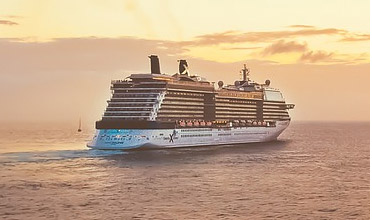
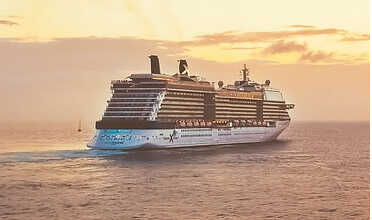
Compressed all img. Back to jpeg img type

diff --git a/index.html b/index.html
@@ -12,10 +12,10 @@
 	<meta name="Version" content="1.0">
 	<meta name="Language" content="English">
 	<!-- Favicon -->
-	<link rel="apple-touch-icon" sizes="180x180" href="./favicon/apple-touch-icon.png">
+	<!-- <link rel="apple-touch-icon" sizes="180x180" href="./favicon/apple-touch-icon.png">
 	<link rel="icon" type="image/png" sizes="32x32" href="./favicon/favicon-32x32.png">
 	<link rel="icon" type="image/png" sizes="16x16" href="./favicon/favicon-16x16.png">
-	<link rel="mask-icon" href="./favicon/safari-pinned-tab.svg" color="#5bbad5">
+	<link rel="mask-icon" href="./favicon/safari-pinned-tab.svg" color="#5bbad5"> -->
 	<!-- Css -->
 	<link rel="stylesheet" href="./css/main.css">
 	<link rel="stylesheet" href="./css/media.css">
@@ -37,9 +37,9 @@
  <link href="https://fonts.googleapis.com/css2?family=Montserrat:wght@200;300;400&amp;family=Raleway:wght@400;500;600;700;800&amp;display=swap" rel="stylesheet">
 </head>
 <body>
-	<section class="preload">
+	<div class="preload">
 		<div class="circle"></div>
-	</section>
+	</div>
 		<a href="#footerLast" class="scrollBtn btnDw"></a>
 		<a href="#" class=" scrollBtn btnUp"></a>
 	<header class="mainHeader">
@@ -362,7 +362,7 @@
 				</a>
 			</div>
 			<div class="lastestProject__boxCarts__img">
-				<img src="./img/lastestProject/android-phone-2048px-21.webp" alt="iPhone in hand">
+				<img src="./img/lastestProject/android-phone-2048px-21.jpg" alt="iPhone in hand">
 			</div>
 			<div class="descriptionForPic">
 				<h3>Claritas Etiam Processus</h3>
@@ -383,7 +383,7 @@
 				</a>
 			</div>
 			<div class="lastestProject__boxCarts__img">
-				<img src="./img/lastestProject/peakpxonee.webp" alt="Splash sea water">
+				<img src="./img/lastestProject/peakpxonee.jpg" alt="Splash sea water">
 			</div>
 			<div class="descriptionForPic">
 				<h3>Quam Nutamus Farum</h3>
@@ -404,7 +404,7 @@
 				</a>
 			</div>
 			<div class="lastestProject__boxCarts__img">
-				<img src="./img/lastestProject/bookLayout.webp" alt="Book">
+				<img src="./img/lastestProject/bookLayout.jpg" alt="Book">
 			</div>
 			<div class="descriptionForPic">
 				<h3>Quam Nutamus Farum</h3>
@@ -446,7 +446,7 @@
 				</a>
 			</div>
 			<div class="lastestProject__boxCarts__img">
-				<img src="./img/lastestProject/Magazine_MockUp.webp" alt="Magazine MockUp">
+				<img src="./img/lastestProject/Magazine_MockUp.png" alt="Magazine MockUp">
 			</div>
 			<div class="descriptionForPic">
 				<h3>Quam Nutamus Farum</h3>
@@ -467,7 +467,7 @@
 				</a>
 			</div>
 			<div class="lastestProject__boxCarts__img">
-				<img src="./img/lastestProject/Kolay_gelsin.webp" alt="Rock and sea">
+				<img src="./img/lastestProject/Kolay_gelsin.jpg" alt="Rock and sea">
 			</div>
 			<div class="descriptionForPic">
 				<h3>Quam Nutamus Farum</h3>
@@ -505,7 +505,7 @@
 <section class="mobileDev">
 	<div class="container mobileDevContainer">
 		<div class="picturePhone">
-			<img src="./img/mobile/iPhone-in-hand.webp" alt="Smartphone">
+			<img src="./img/mobile/iPhone-in-hand.png" alt="Smartphone">
 		</div>
 			<div class="mobileTxt">
 			<div class="descriptionBoxForMobile">
@@ -732,7 +732,7 @@
 </section>
 
 <!-- Section Logos -->
-<section class="logos">
+<div class="logos">
 <div class="logosBox">
 	<div class="imgLogoBox">
 		<img src="./img/logos/logo-1.png" alt="">
@@ -747,7 +747,7 @@
 		<img src="./img/logos/logo-4.png" alt="">
 	</div>
 </div>
-</section>
+</div>
 <footer class="footerMain" id="footerLast">
 <div class="container footerBox">
 	<h4 class="footerCopyright">

diff --git a/css/main.css b/css/main.css
@@ -152,8 +152,12 @@ body{
 	font-family: 'Montserrat', sans-serif;
 }
 
-a{
+a, .scrollBtn:hover, .logoMain, .logoMain use, .search svg, .shop svg, .search svg use, .shop svg use, .BoxPreview a> *, .hiddenBox a svg, .hiddenBox a svg use, .boxlogo svg, .arrowBtn, .arrowBtn svg{
 	cursor: var(--pointerCursor), pointer;
+}
+
+a{
+
 	color: inherit;
 	text-decoration: none;
 }
@@ -254,7 +258,7 @@ ul{
 }
 
 .scrollBtn:hover {
-		cursor: var(--pointerCursor), pointer;
+	
 	background-color: var(--primaryColor);
 }
 .scrollBtn:active {
@@ -312,14 +316,14 @@ ul{
 }
 
 .logoMain{
-	cursor: var(--pointerCursor), pointer;
+
 	width: 50px;
 	height: 50px;
 	fill: var(--whiteColor);
 }
 
 .logoMain use{
-	cursor: var(--pointerCursor), pointer;
+
 }
 .navigation ul li{
 	margin-left: 10px;
@@ -341,14 +345,14 @@ ul{
 	font-family: 'Raleway', sans-serif;
 }
 .search svg, .shop svg{
-	cursor: var(--pointerCursor), pointer;
+
 	width: 20px;
 	height: 20px;
 	fill: var(--whiteColor);
 }
 
 .search svg use, .shop svg use{
-	cursor: var(--pointerCursor), pointer;
+
 }
 
 .search svg:hover, .shop svg:hover, .headerTxt:hover, .logo:hover .logoMain, .logo:hover .headerTxt {
@@ -448,20 +452,20 @@ ul{
 .slideOne{
 	background-image: 
 	linear-gradient(#080601a6, #080601a6), 
-	url(../img/Slider/matterhorn.webp);
+	url(../img/Slider/matterhorn.jpg);
 }
 
 .slideTwo{
-	background-image: url(../img/Slider/rocks_2.webp);
+	background-image: url(../img/Slider/rocks_2.jpg);
 	
 }
 
 .slideThree{
-	background-image: url(../img/Slider/mountain3.webp);
+	background-image: url(../img/Slider/mountain3.jpg);
 }
 
 .slideFour{
-	background-image: url(../img/Slider/water.webp);
+	background-image: url(../img/Slider/water.jpg);
 }
 
 .btnSliderArrow{
@@ -539,7 +543,7 @@ ul{
 	fill: var(--primaryColor);
 }
 .BoxPreview a> *{
-	cursor: var(--pointerCursor), pointer;
+
 	margin-bottom: 20px;
 }
 .logoWhatWeDo{
@@ -776,7 +780,7 @@ margin: 10px 3px 0;
 
 
 .hiddenBox a svg{
-	cursor: var(--pointerCursor), pointer;
+
 	width: 25px;
 	height: 100%;
 	fill: var(--whiteColor);
@@ -785,7 +789,7 @@ margin: 10px 3px 0;
 }
 
 .hiddenBox a svg use{
-		cursor: var(--pointerCursor), pointer;
+	
 }
 
 .hiddenBox a svg:hover{
@@ -801,7 +805,7 @@ margin: 10px 3px 0;
 	display: flex;
 	align-items: center;
 	justify-content: center;
-	background-image: url(../img/presentation/desk1.webp);
+	background-image: url(../img/presentation/desk1.jpg);
 	background-size: cover;
 	background-size: cover;
 	background-position: center center;
@@ -822,7 +826,7 @@ margin: 10px 3px 0;
 }
 
 .boxlogo svg{
-		cursor: var(--pointerCursor), pointer;
+	
 	padding: 15px;
 	width: 100px;
 	height: 100px;
@@ -1172,7 +1176,7 @@ margin-right: 20px;
 }
 
 .arrowBtn{
-		cursor: var(--pointerCursor), pointer;
+	
 	display: inline-block;
 	width: 20px;
 	height: 20px;
@@ -1185,7 +1189,7 @@ margin-right: 20px;
 }
 
 .arrowBtn svg{
-		cursor: var(--pointerCursor), pointer;
+	
 	padding: 4px;
 	width: 100%;
 	height: 100%;
@@ -1211,7 +1215,7 @@ margin-right: 20px;
 
 .logos{
 	padding: 80px 3%;
-	background-image: linear-gradient(#080601a6, #080601a6), url(../img/logos/logo-bg.webp);
+	background-image: linear-gradient(#080601a6, #080601a6), url(../img/logos/logo-bg.jpg);
 	background-position: center center;
 	background-repeat: no-repeat;
 	background-size: cover;

diff --git a/css/slider.css b/css/slider.css
@@ -88,20 +88,20 @@
 .slideOne{
 	background-image: 
 	linear-gradient(#080601a6, #080601a6), 
-	url(../img/Slider/matterhorn.webp);
+	url(../img/Slider/matterhorn.jpg);
 }
 
 .slideTwo{
-	background-image: url(../img/Slider/rocks_2.webp);
+	background-image: url(../img/Slider/rocks_2.jpg);
 	
 }
 
 .slideThree{
-	background-image: url(../img/Slider/mountain3.webp);
+	background-image: url(../img/Slider/mountain3.jpg);
 }
 
 .slideFour{
-	background-image: url(../img/Slider/water.webp);
+	background-image: url(../img/Slider/water.jpg);
 }
 
 .btnSliderArrow{

diff --git a/css/logos.css b/css/logos.css
@@ -1,6 +1,6 @@
 .logos{
 	padding: 80px 3%;
-	background-image: linear-gradient(#080601a6, #080601a6), url(../img/logos/logo-bg.webp);
+	background-image: linear-gradient(#080601a6, #080601a6), url(../img/logos/logo-bg.jpg);
 	background-position: center center;
 	background-repeat: no-repeat;
 	background-size: cover;

diff --git a/css/presentation.css b/css/presentation.css
@@ -4,7 +4,7 @@
 	display: flex;
 	align-items: center;
 	justify-content: center;
-	background-image: url(../img/presentation/desk1.webp);
+	background-image: url(../img/presentation/desk1.jpg);
 	background-size: cover;
 	background-size: cover;
 	background-position: center center;
